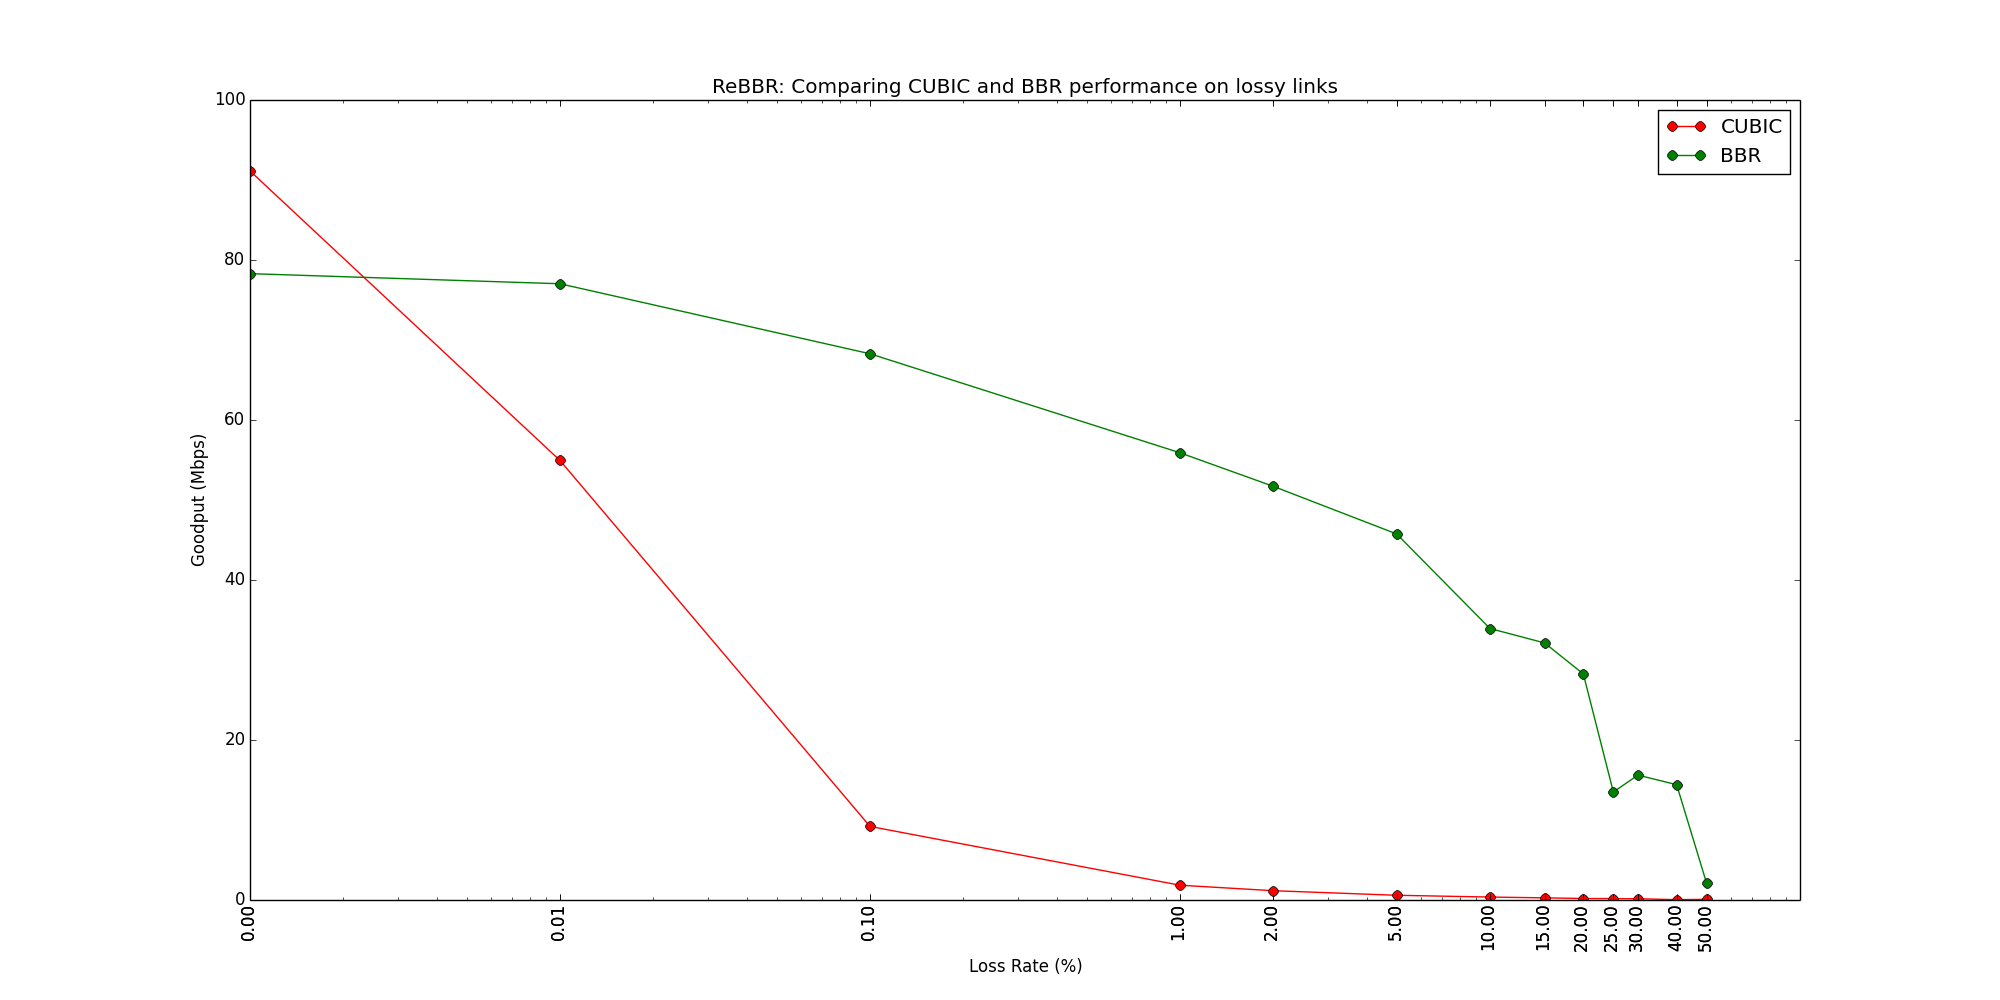
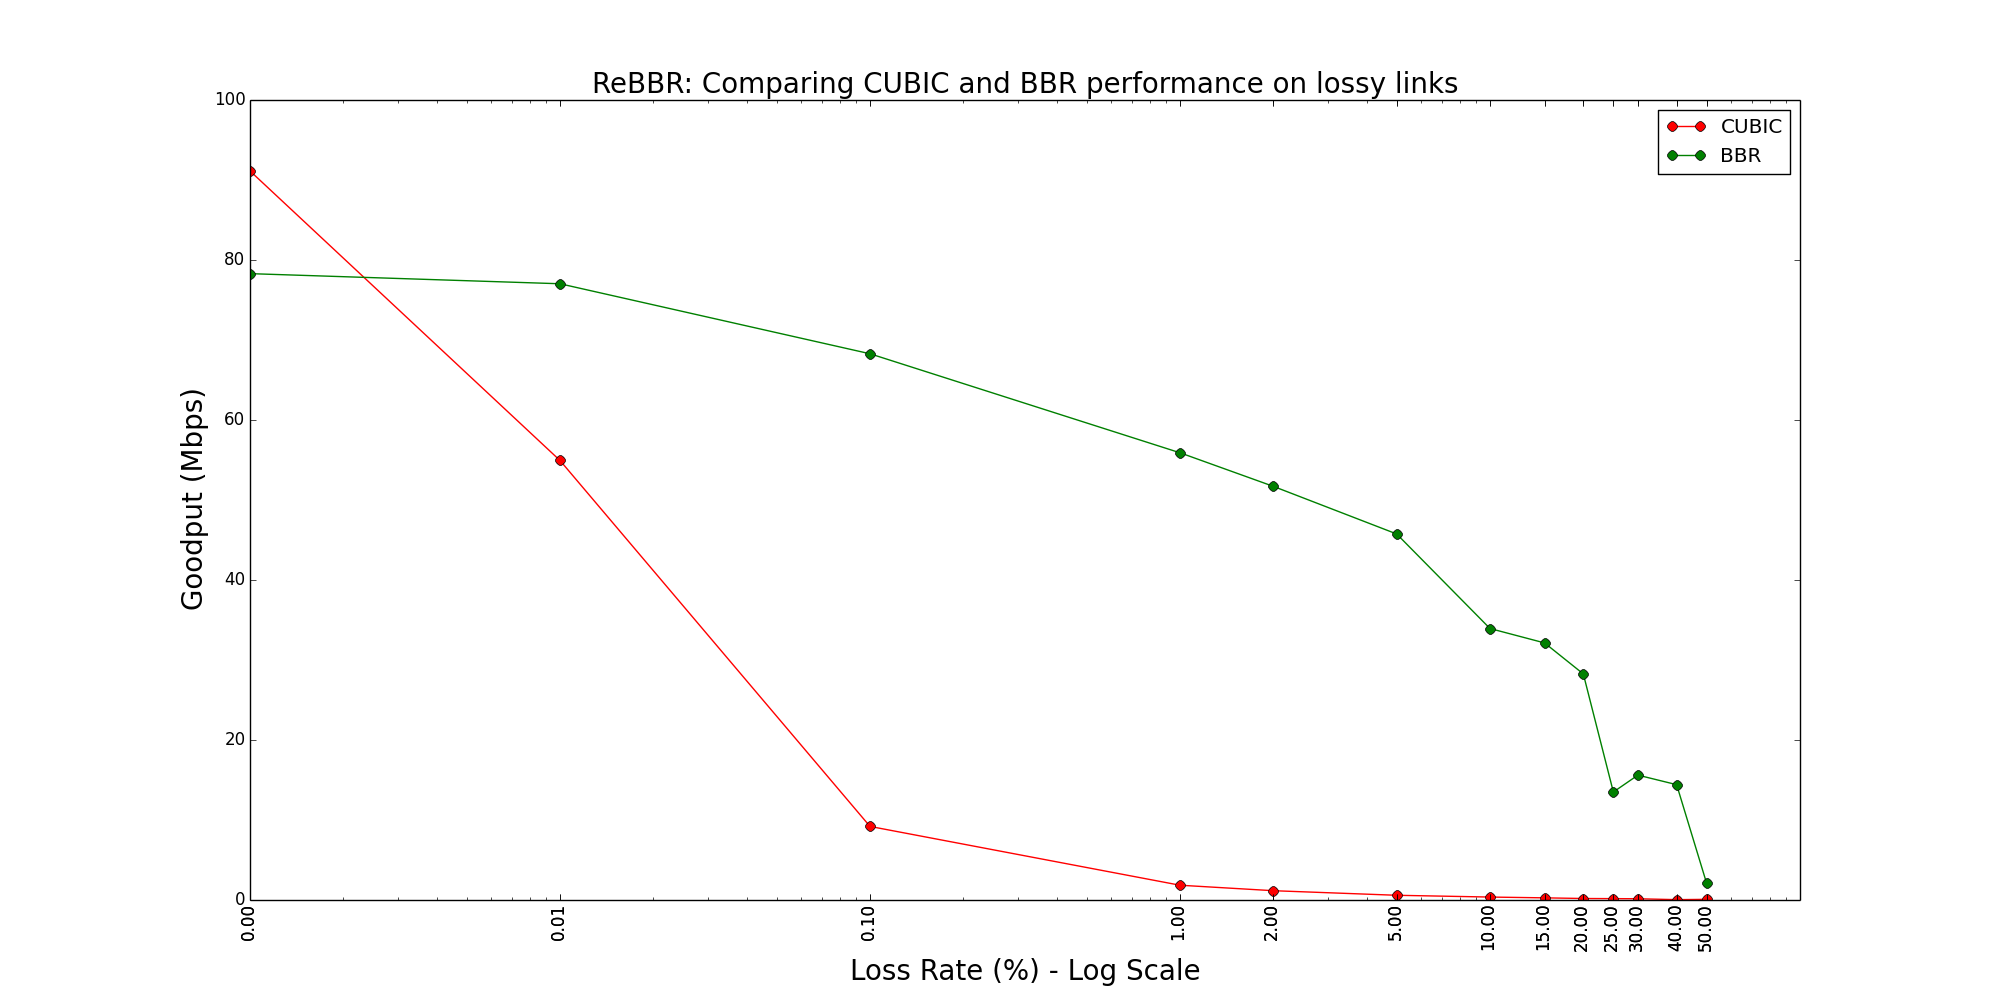
Make the labels a little larger

Changed region(s): [[0.279, 0.062, 0.744, 0.093], [0.434, 0.961, 0.62, 0.992], [0.093, 0.403, 0.124, 0.589]]

diff --git a/mahimahi/bbr_experiment.py b/mahimahi/bbr_experiment.py
@@ -161,9 +161,9 @@ def _make_plots(logfile):
     axes.get_xaxis().set_major_formatter(matplotlib.ticker.ScalarFormatter())
 
     # Plot Graph tile and axis labels.
-    plt.title("ReBBR: Comparing CUBIC and BBR performance on lossy links")
-    plt.ylabel("Goodput (Mbps)")
-    plt.xlabel("Loss Rate (%) - Log Scale")
+    plt.title("ReBBR: Comparing CUBIC and BBR performance on lossy links", size=20)
+    plt.ylabel("Goodput (Mbps)", size=20)
+    plt.xlabel("Loss Rate (%) - Log Scale", size=20)
 
     # Plot Graph legend
     axes.legend()
